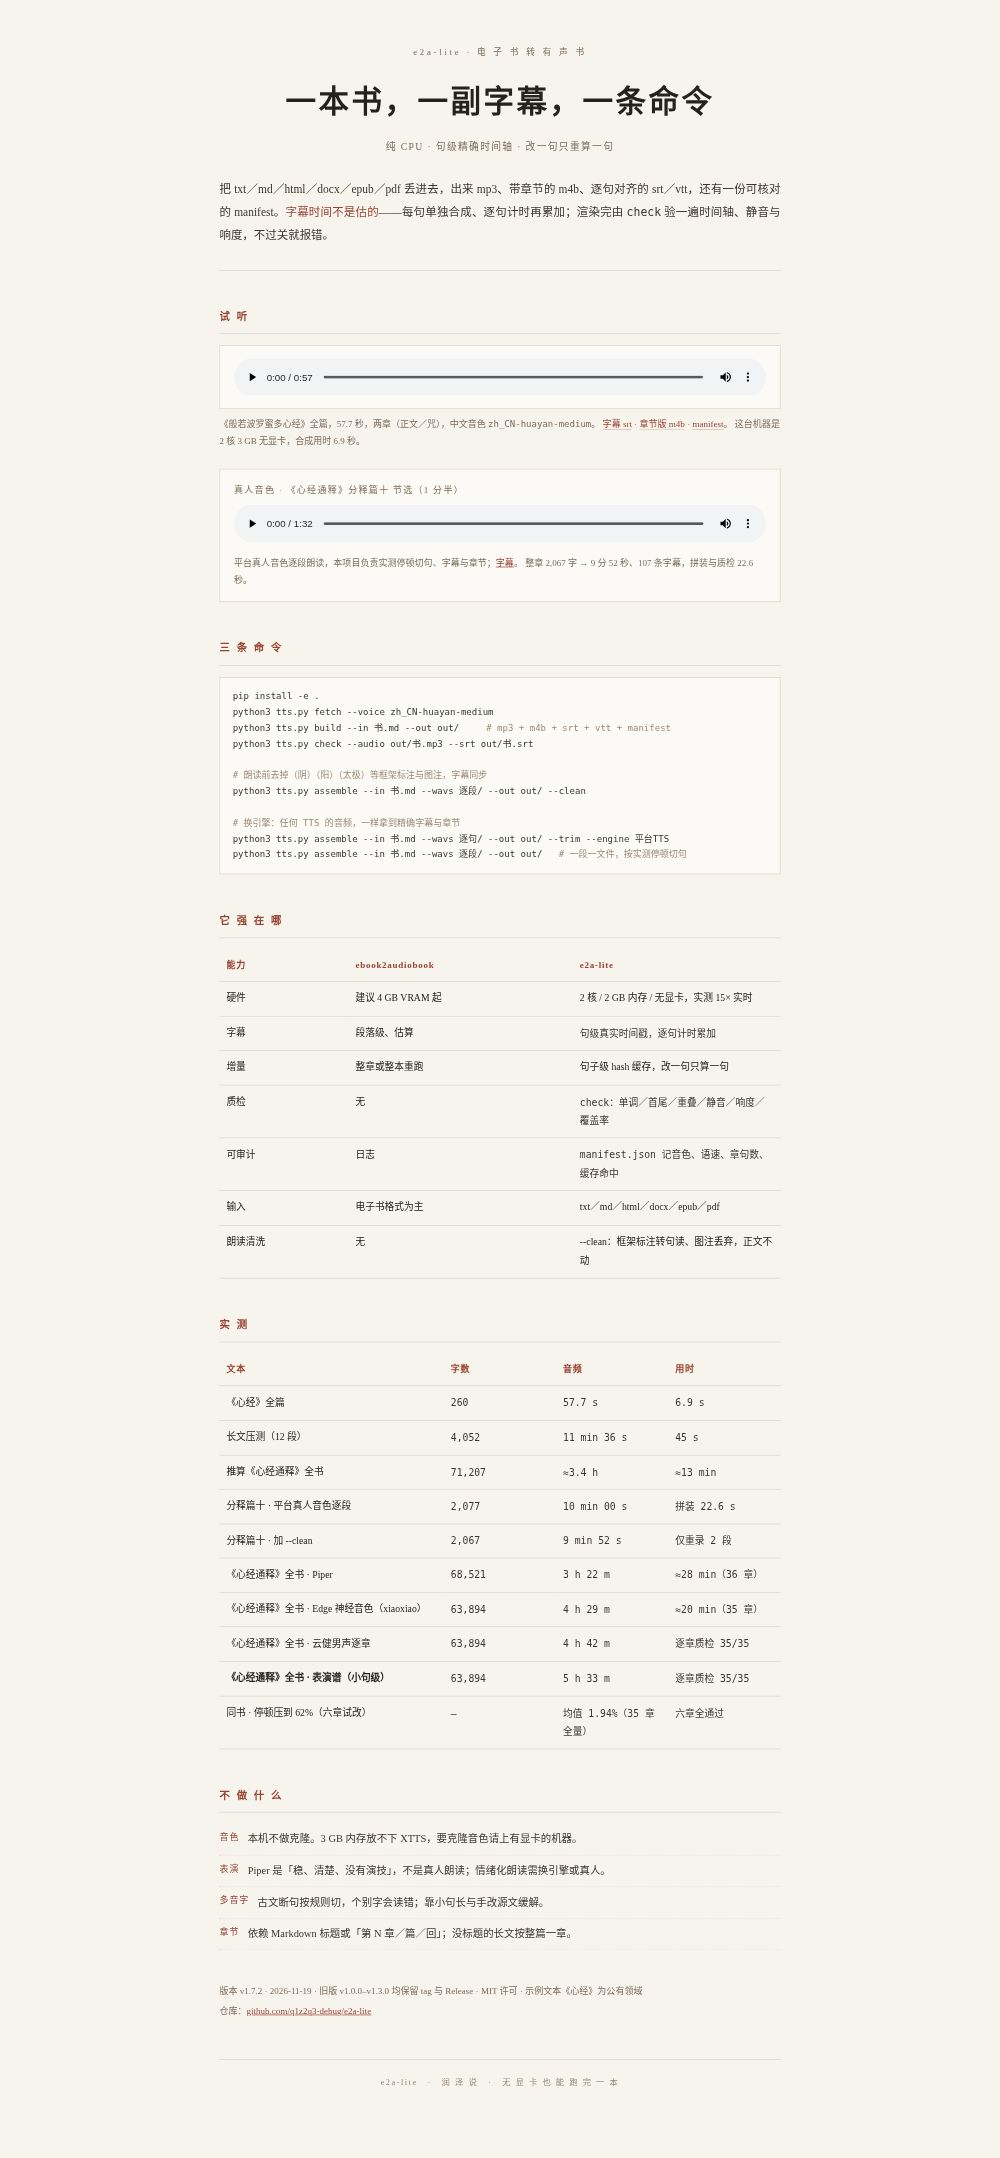
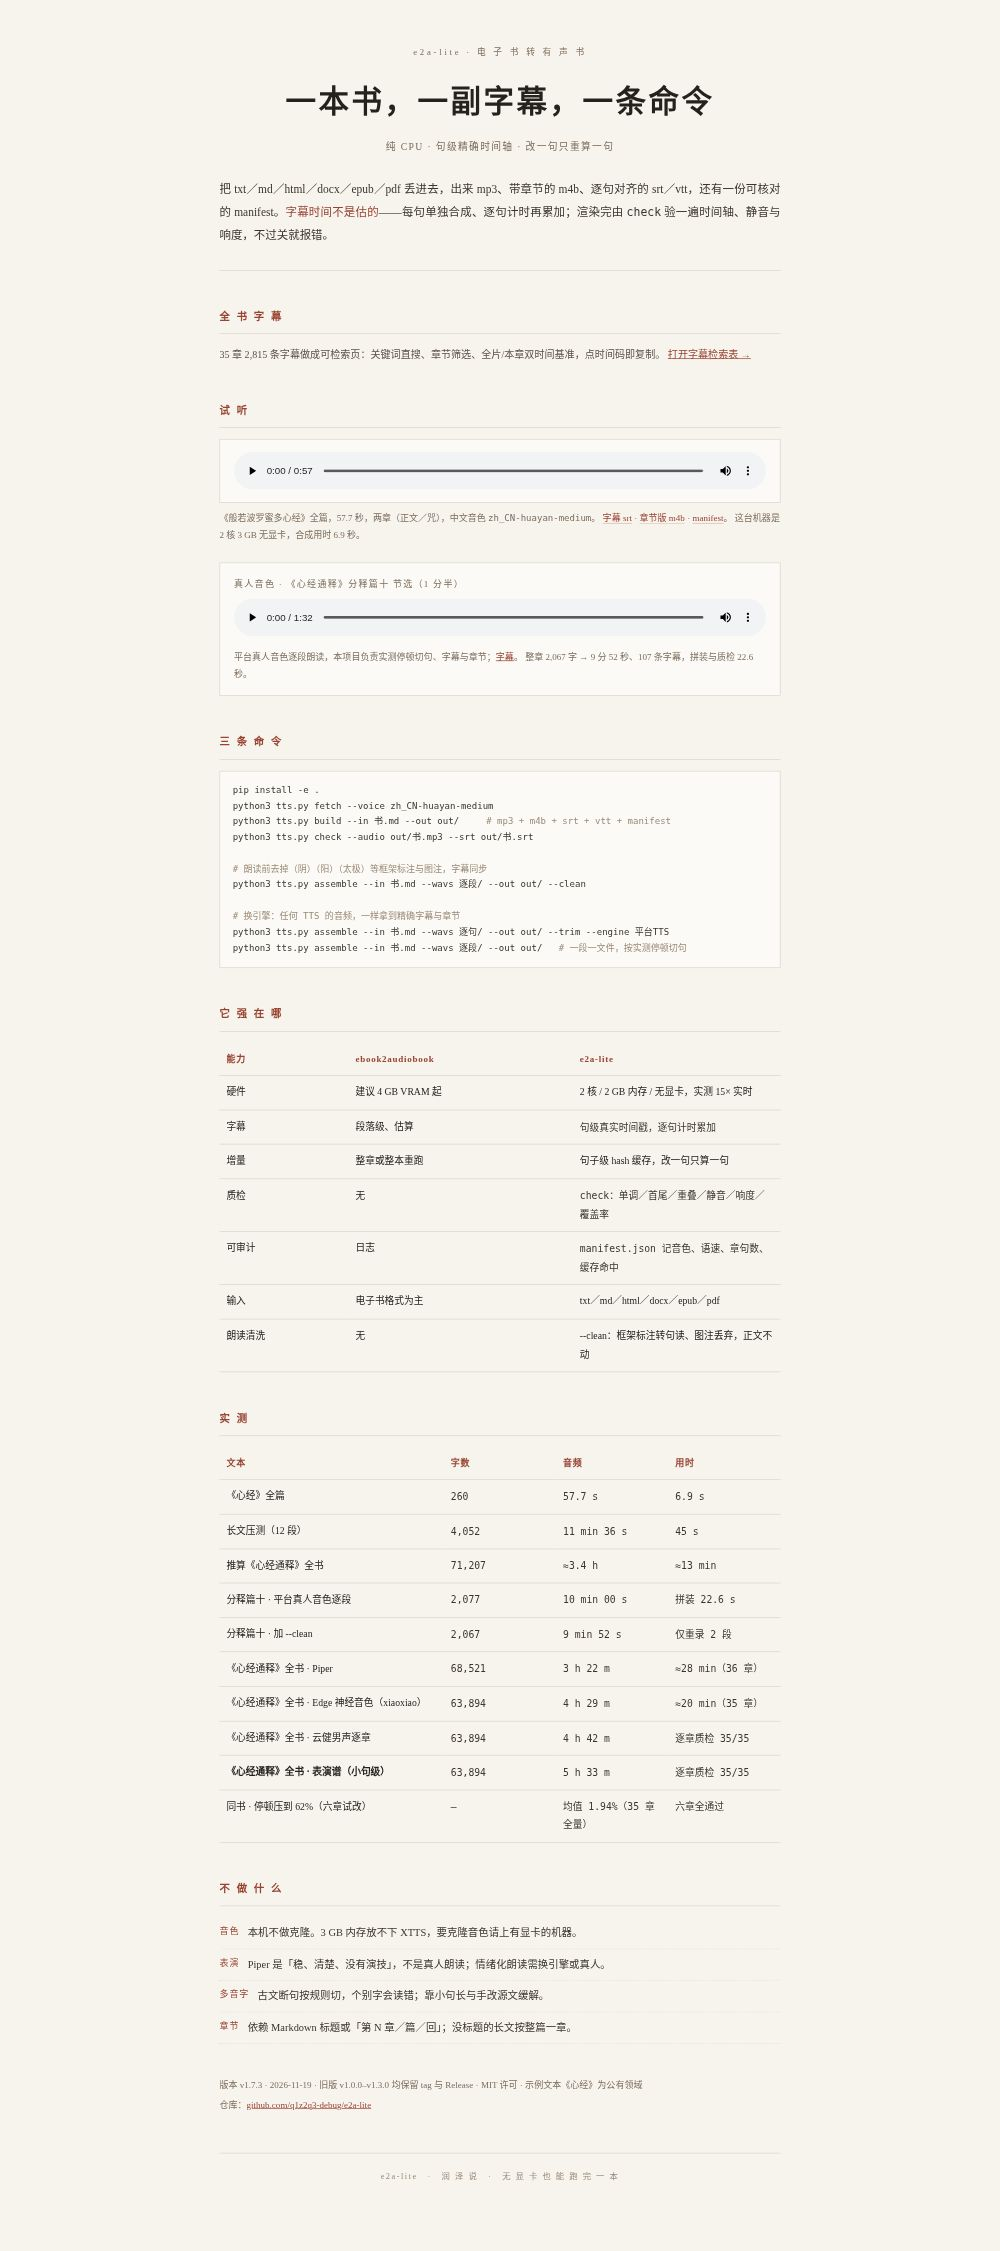
docs: 首页加入字幕检索表入口

diff --git a/docs/index.html b/docs/index.html
@@ -53,6 +53,12 @@ ul.plain li i{font-style:normal;color:var(--ochre);flex:0 0 auto;font-size:13px;
 
   <div class="rule"></div>
 
+  <h2>全 书 字 幕</h2>
+  <p style="font-size:14.5px;color:#5B5148;line-height:1.9;margin:0 0 18px">
+    35 章 2,815 条字幕做成可检索页：关键词直搜、章节筛选、全片/本章双时间基准，点时间码即复制。
+    <a href="subtitles.html" style="color:#994433">打开字幕检索表 →</a>
+  </p>
+
   <h2>试 听</h2>
   <div class="player">
     <audio controls preload="metadata" src="samples/心经.mp3"></audio>
